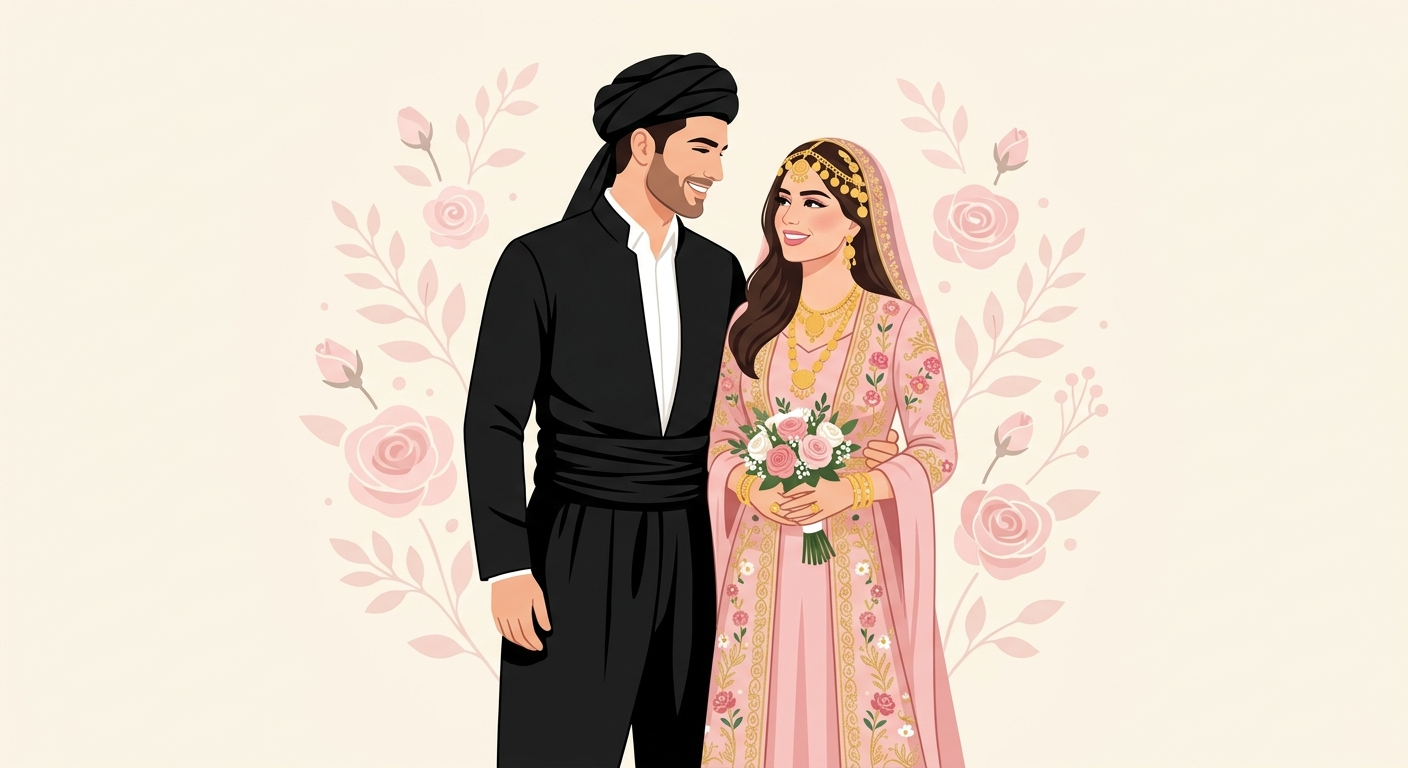
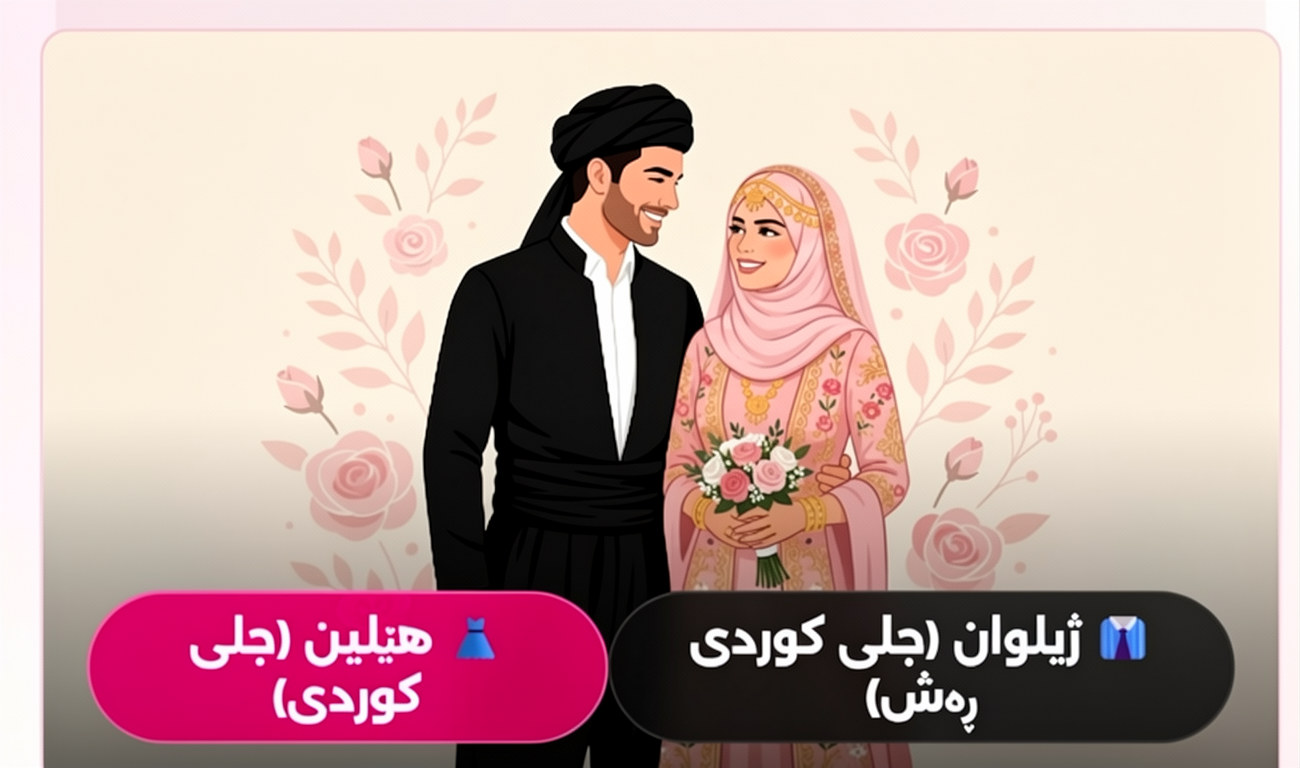
bdhh

diff --git a/src/App.tsx b/src/App.tsx
@@ -342,11 +342,6 @@ export default function App() {
               <span>بە هیواین ساتێکی خۆش بەسەر ببەن</span>
             </div>
 
-            {/* Prepared By Credit in Envelope view */}
-            <div className="absolute bottom-3 text-[11px] text-neutral-400 font-medium">
-              ئامادەکردنی: <span className="text-pink-600 font-semibold">sahand</span>
-            </div>
-
           </div>
         ) : (
           /* ---------------------------------------------------------------------------------- */
@@ -439,25 +434,15 @@ export default function App() {
                 </div>
 
                 {/* Groom & Bride Kurdish Clothes Illustration Card */}
-                <div className="my-6 p-4 rounded-xl bg-gradient-to-br from-pink-50 via-white to-rose-50 border border-pink-200 shadow-md text-center">
-                  <div className="relative w-full h-52 rounded-lg overflow-hidden mb-3 border border-pink-200/80 shadow-inner group">
+                <div className="my-6 p-2 rounded-2xl bg-gradient-to-br from-pink-50 via-white to-rose-50 border border-pink-200/90 shadow-md text-center">
+                  <div className="relative w-full rounded-xl overflow-hidden border border-pink-200/80 shadow-sm">
                     <img 
                       src={kurdishCoupleArt} 
                       alt="ژیلوان و هێلین بە جلی کوردی"
-                      className="w-full h-full object-cover object-top group-hover:scale-105 transition-transform duration-700"
+                      className="w-full h-auto block object-contain"
                     />
-                    <div className="absolute inset-0 bg-gradient-to-t from-black/60 via-transparent to-transparent flex items-end p-3">
-                      <div className="w-full flex items-center justify-between text-white text-xs font-bold">
-                        <span className="bg-neutral-900/80 px-2.5 py-1 rounded-full border border-neutral-700 backdrop-blur-xs">
-                          👔 ژیلوان (جلی کوردی ڕەش)
-                        </span>
-                        <span className="bg-pink-600/90 px-2.5 py-1 rounded-full border border-pink-400 backdrop-blur-xs">
-                          👗 هێلین (جلی کوردی)
-                        </span>
-                      </div>
-                    </div>
                   </div>
-                  <p className="text-xs text-neutral-600 font-semibold">
+                  <p className="text-xs text-neutral-600 font-semibold pt-2 pb-1">
                     بووک و زاوا بە بەرگی ڕەسەنی کوردی
                   </p>
                 </div>
@@ -643,14 +628,7 @@ export default function App() {
                 </a>
               </div>
 
-              {/* Exact Footer Text Requested: "ئامادەکردنی: sahand" */}
-              <div className="pt-4 border-t border-pink-200/60 text-xs text-neutral-500">
-                <p className="font-semibold text-neutral-700">
-                  ئامادەکردنی: <span className="text-pink-600 font-bold">sahand</span>
-                </p>
-                <p className="text-[10px] text-neutral-400 mt-1">
-                  هەموو مافەکان پارێزراون © ٢٠٢٦
-                </p>
+              <div className="pt-2 border-t border-pink-200/40">
               </div>
 
             </div>